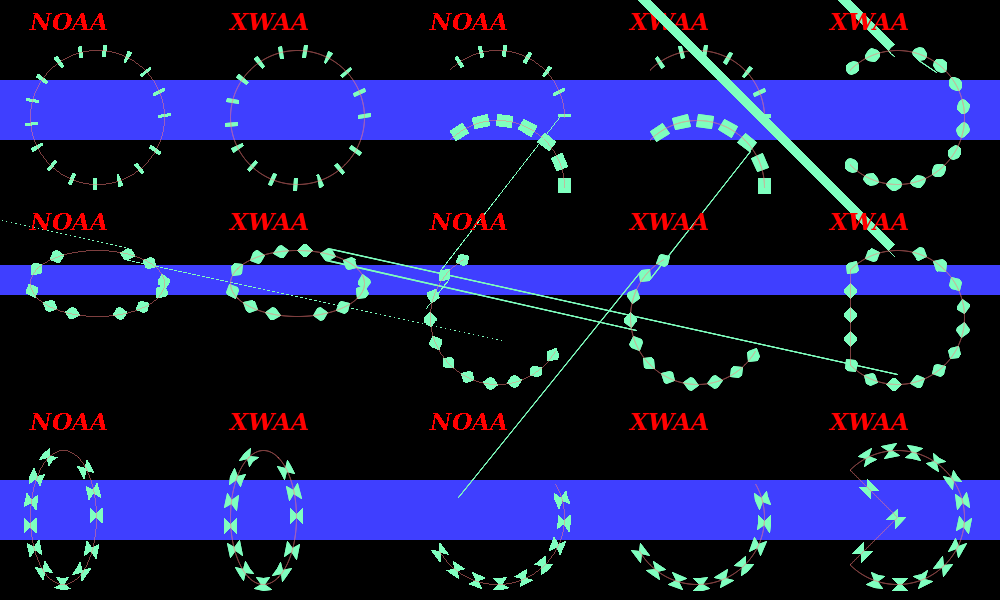
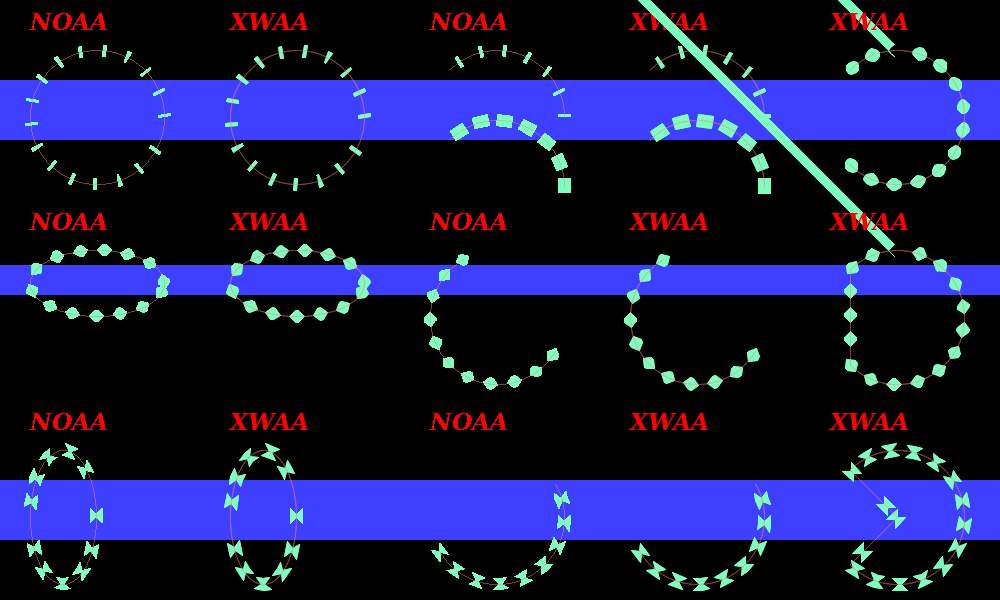
Working on patterned thick lines

diff --git a/src/Pt-Gfx/ImagePainter2.cpp b/src/Pt-Gfx/ImagePainter2.cpp
@@ -105,7 +105,7 @@ static inline bool intersectLine(bool& inLine, PointF& intersect, const PointF& 
         }
         if(x11 == x12 && x11 == x21 && x11 == x22 && y12 == y21) {
             intersect.set(x11, y12);
-            inLine = false;
+            inLine = true;
             return true;
         }
         // No intersection
@@ -114,8 +114,14 @@ static inline bool intersectLine(bool& inLine, PointF& intersect, const PointF& 
 
     // Calculate the intersection point
     const float idenom = 1.0f / denom;
-    const float ipX    = (b1 * c2 - b2 * c1) * idenom;
-    const float ipY    = (a2 * c1 - a1 * c2) * idenom;
+          float ipX    = (b1 * c2 - b2 * c1) * idenom;
+          float ipY    = (a2 * c1 - a1 * c2) * idenom;
+
+         if(ipX < minX1 && ipX < minX2) ipX = (minX1 + minX2) * 0.5f;
+    else if(ipX > maxX1 && ipX > maxX2) ipX = (maxX1 + maxX2) * 0.5f;
+
+         if(ipY < minY1 && ipY < minY2) ipY = (minY1 + minY2) * 0.5f;
+    else if(ipY > maxY1 && ipY > maxY2) ipY = (maxY1 + maxY2) * 0.5f;
 
     intersect.set(ipX, ipY);
 
@@ -155,8 +161,6 @@ static inline void satDPIProjection(float& min, float& max, const PointF* points
 //           Public domain code by Wojciech Muła, 2013-2017
 static inline bool satDPIProcess(const PointF* poly1, size_t poly1Count, const PointF* poly2, size_t poly2Count)
 {
-    // ### TODO: NOT WORKING PROPERLY !!! ###
-
     #define FIX_INDEX(I, M)  ( ( (I) < 0 ) ? ( (I) + (M) ) : ( ( (I) >= (M) ) ? ( (I) - (M) ) : (I) ) )
 
     for(size_t i = 0; i < poly1Count; ++i) {
@@ -239,8 +243,6 @@ static inline Pt::int32_t naiveDPIGetSide(float la, float lb, float lc, const Po
 //           Public domain code by Wojciech Muła, 2013-2017
 static inline bool naiveDetectPolygonIntersection(const PointF* poly1, size_t poly1Count, const PointF* poly2, size_t poly2Count)
 {
-    // ### TODO: NOT WORKING PROPERLY !!! ###
-
     #define FIX_INDEX(I, M)  ( ( (I) < 0 ) ? ( (I) + (M) ) : ( ( (I) >= (M) ) ? ( (I) - (M) ) : (I) ) )
 
     for(size_t i = 0; i < poly1Count; ++i) {
@@ -308,8 +310,8 @@ static inline bool bboxDetectPolygonIntersection(const PointF* poly1, size_t pol
 
 static inline bool detectPolygonIntersection(const PointF* poly1, size_t poly1Count, const PointF* poly2, size_t poly2Count)
 {
-    return bboxDetectPolygonIntersection (poly1, poly1Count, poly2, poly2Count);
-    //return satDetectPolygonIntersection  (poly1, poly1Count, poly2, poly2Count);
+    //return bboxDetectPolygonIntersection (poly1, poly1Count, poly2, poly2Count);
+      return satDetectPolygonIntersection  (poly1, poly1Count, poly2, poly2Count);
     //return naiveDetectPolygonIntersection(poly1, poly1Count, poly2, poly2Count);
 }
 
@@ -1524,7 +1526,7 @@ bool ImagePainter2::combineLineSegmentForSolidClosedPolygon(std::vector<PointF>&
     */
 
     // Store the "outside" line's points
-    const Pen::JoinStyle js1 = (inSameSegment || inLine) ? Pen::MiterJoin : _rasterizer->pen().joinStyle();
+    const Pen::JoinStyle js1 = Pen::MiterJoin;//(inSameSegment || inLine) ? Pen::MiterJoin : _rasterizer->pen().joinStyle();
     outer.pop_back();
     if(isFirst) outer.pop_back();
     switch(js1) {

diff --git a/src/Pt-Gfx/tests/ImagePainterTest2.cpp b/src/Pt-Gfx/tests/ImagePainterTest2.cpp
@@ -80,10 +80,10 @@ using namespace Pt::Gfx;
 #define TEST_DRAW_PATTERNED_THICK_LINE          0 // (including bezier)
 
 #define TEST_DRAW_OMPF_RECTANGLES               0 // (including thick and filled)
-#define TEST_DRAW_ROUND_OMPF_RECTANGLES         1 // (including thick and filled) // ### TODO: Missing pattern !!! ###
+#define TEST_DRAW_ROUND_OMPF_RECTANGLES         1 // (including thick and filled)
 #define TEST_DRAW_ELLIPSES_ARCS                 0
 #define TEST_DRAW_SOLID_THICK_ELLIPSES_ARCS     0
-#define TEST_DRAW_PATTERNED_THICK_ELLIPSES_ARCS 0                                 // ### TODO: Extra lines !!! ###
+#define TEST_DRAW_PATTERNED_THICK_ELLIPSES_ARCS 1 // ### TODO: ERROR: inavlid & extra lines !!! ###
 
 #define TEST_DRAW_SOLID_FILLED_POLYGONS         0
 #define TEST_DRAW_GRADIENT_FILLED_POLYGONS      0
